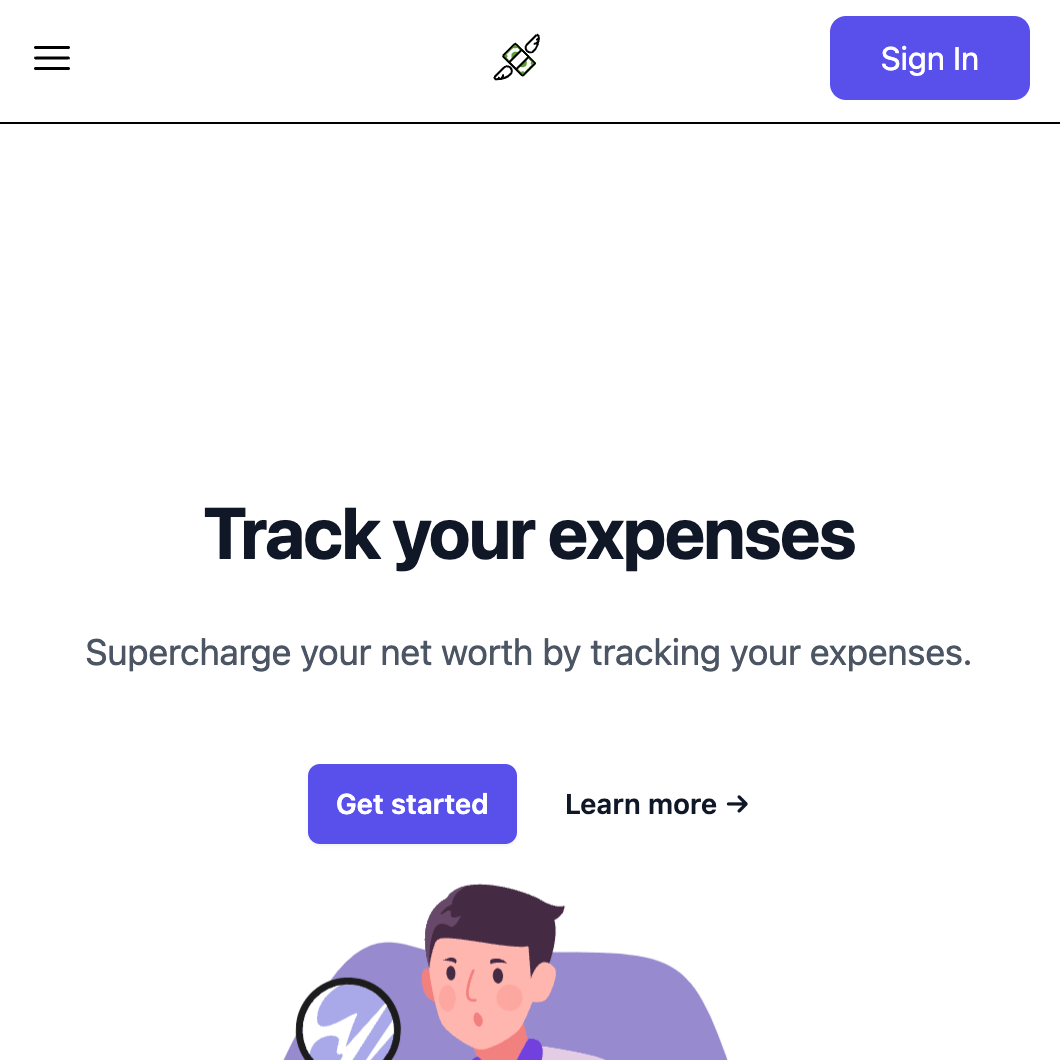
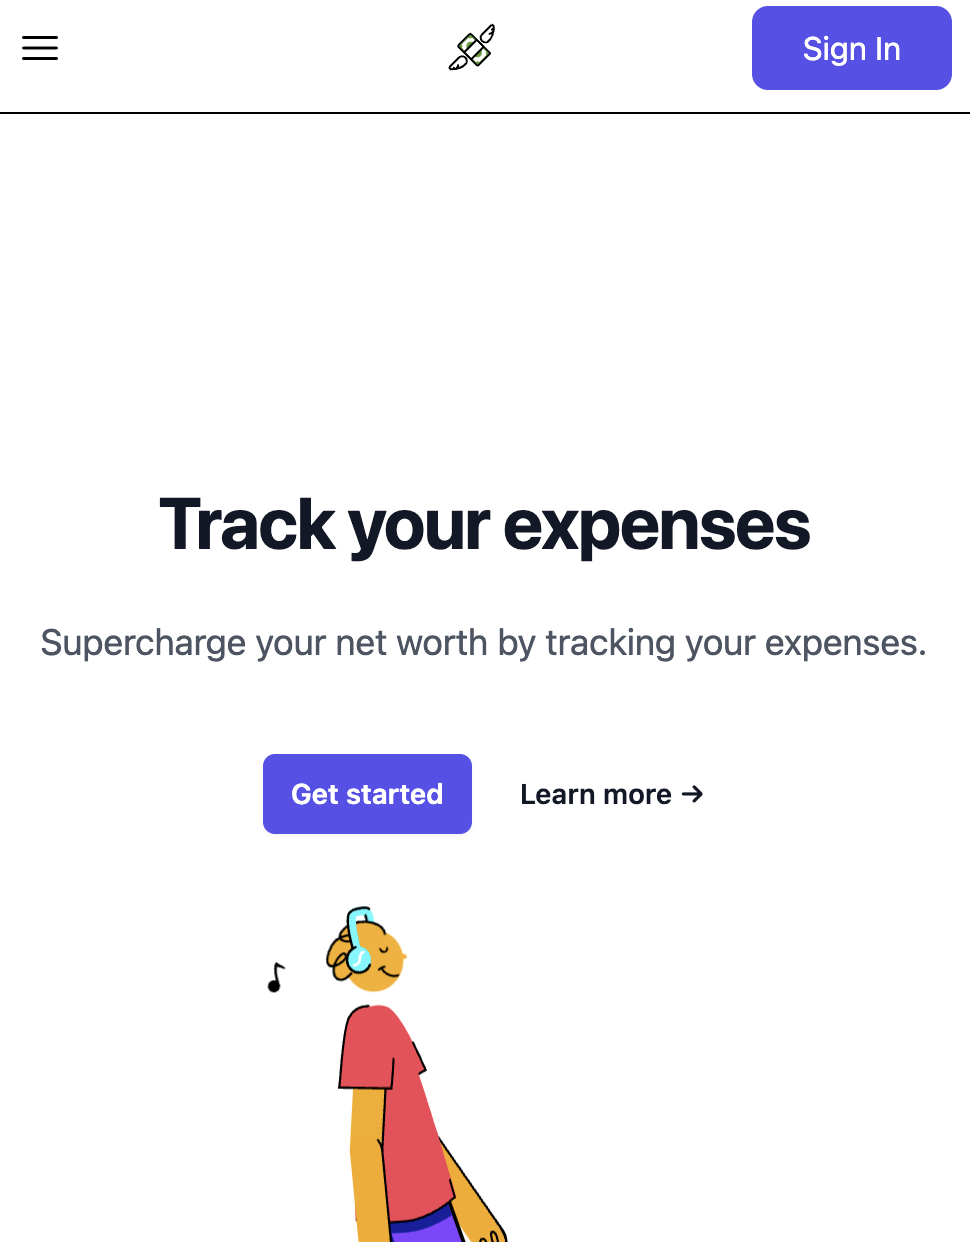
🎨: cooler lottie (#170)
* gW
* update README

diff --git a/web/src/app/components/atoms/MyLottie.tsx b/web/src/app/components/atoms/MyLottie.tsx
@@ -2,12 +2,12 @@
 
 import Lottie from 'lottie-react';
 
-import financeAnalyst from '@/app/lib/animations/financeAnalyst.json';
+import groovyWalk from '@/app/lib/animations/groovyWalk.json';
 
 export default function MyLottie() {
   return (
     <div className='max-w-sm'>
-      <Lottie animationData={financeAnalyst} />
+      <Lottie animationData={groovyWalk} />
     </div>
   );
 }

diff --git a/README.md b/README.md
@@ -1,10 +1,10 @@
-# abc
+# xtrack
 
 <img src='./expo/assets/logo.png' width='50'>
 
 XTrack gives you wings!
 
-<img src='./web/public/screenshot.png' width='400' style='border-radius: 25px;'>
+<img src='./web/public/screenshot.png' width='300'>
 
 ### frontend
 
